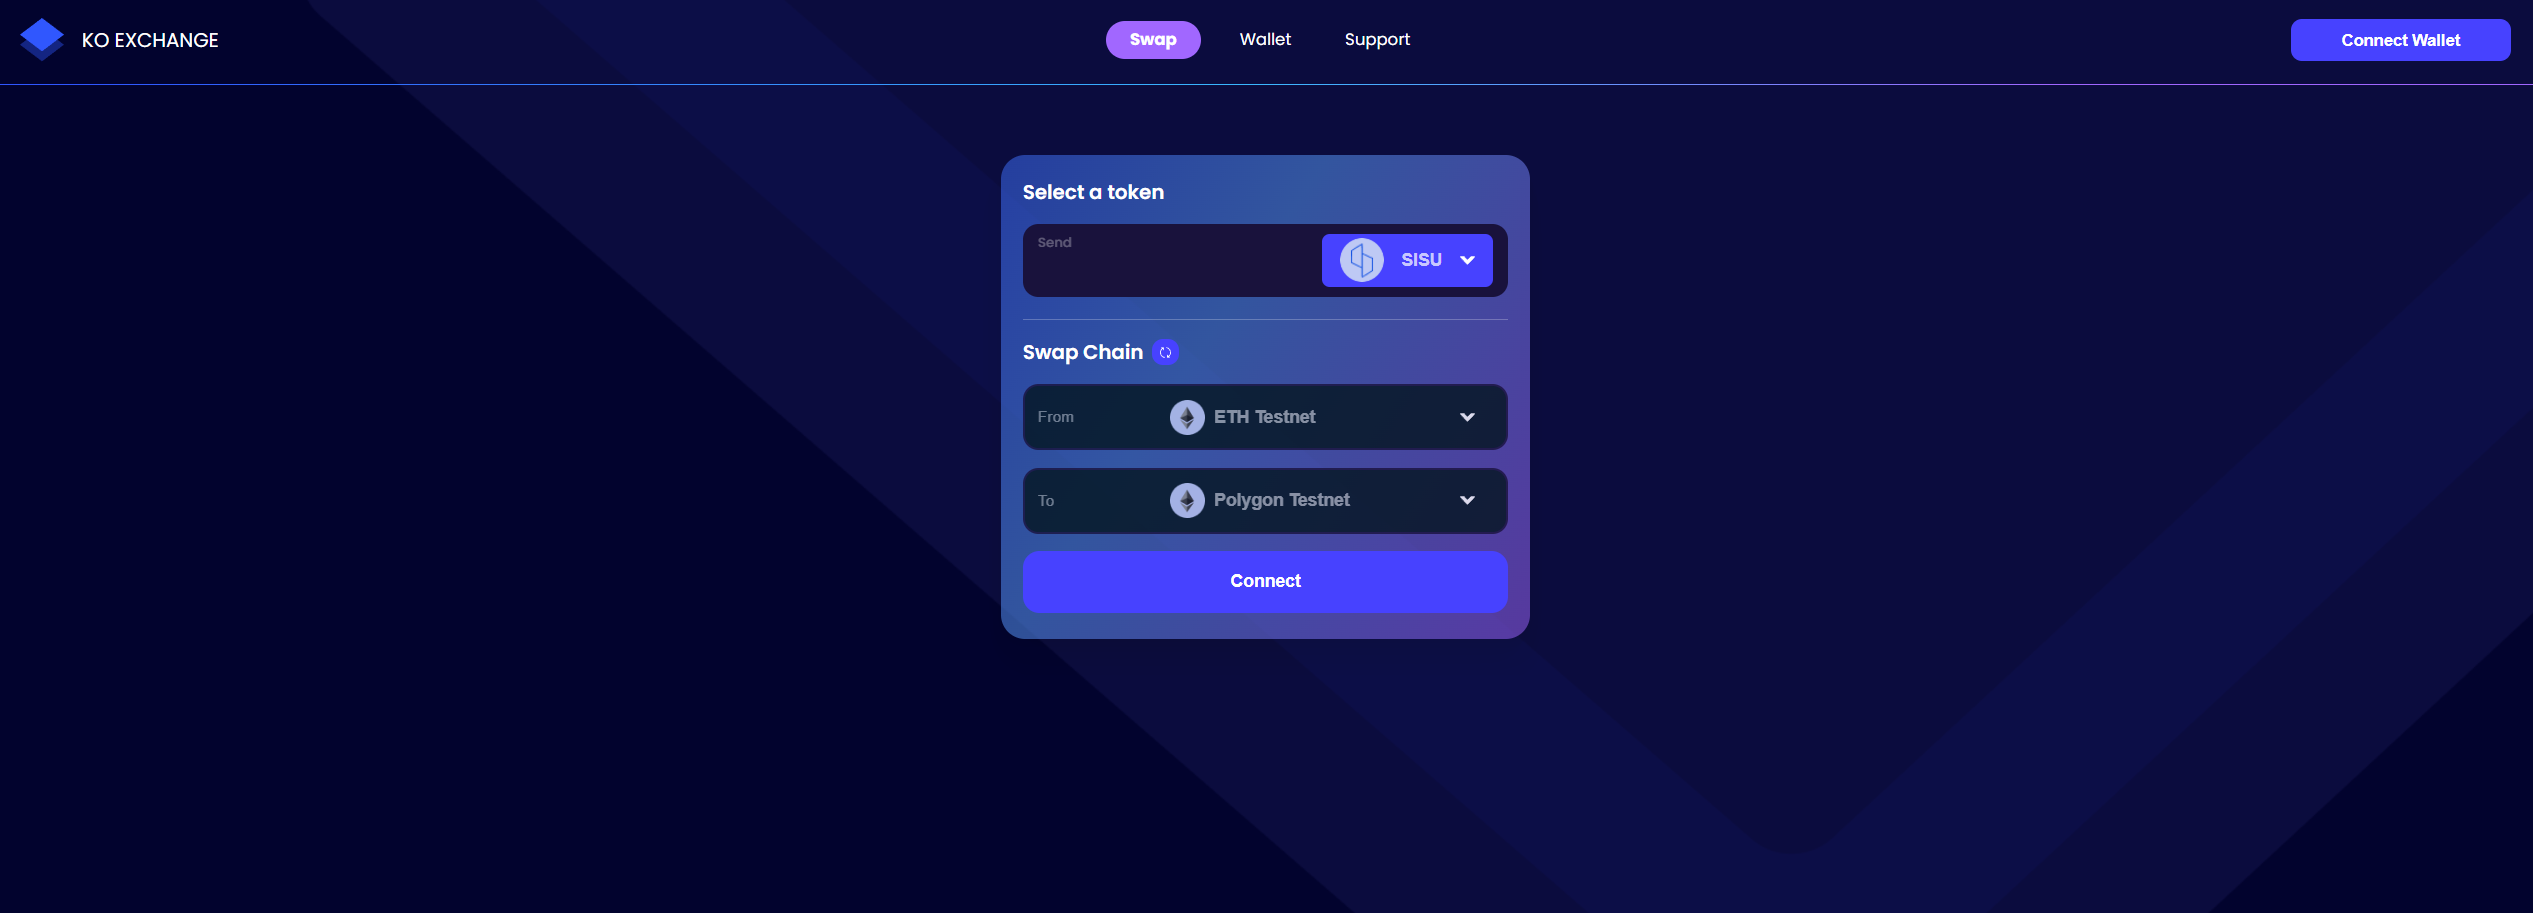
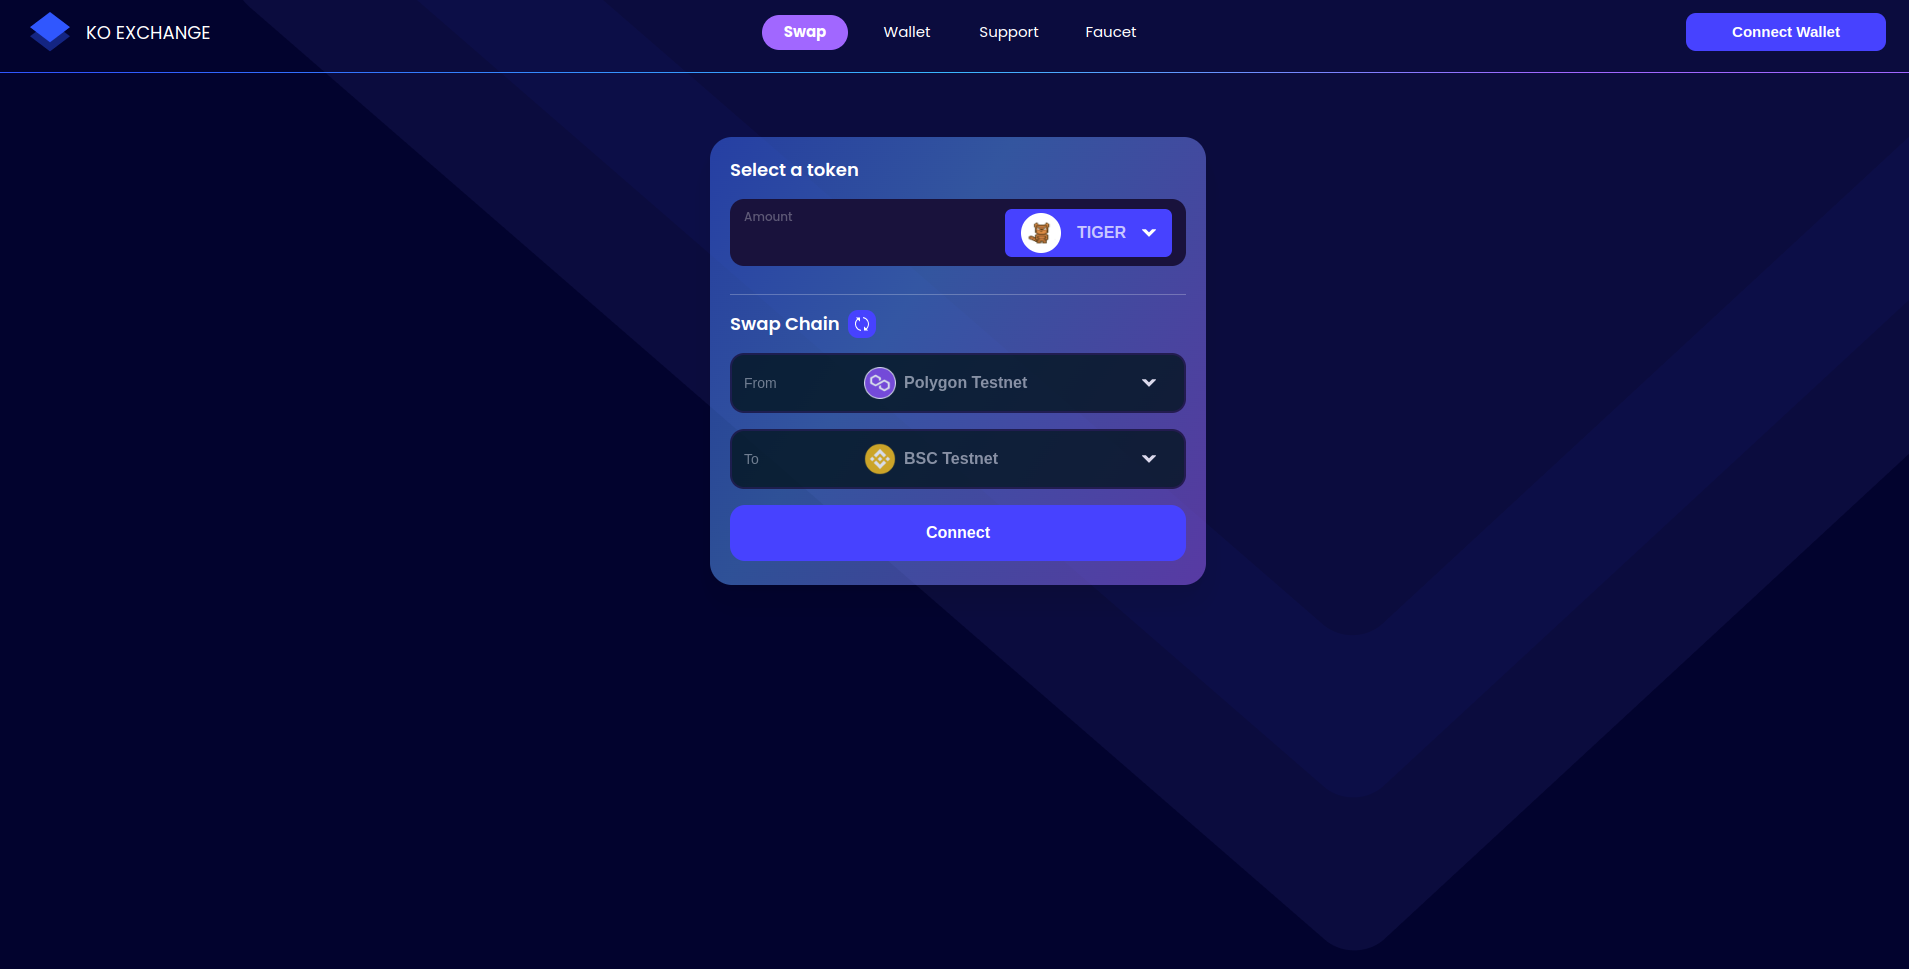
feat: update how to swap page

diff --git a/docs/how-to-swap-on-ko-exchange.md b/docs/how-to-swap-on-ko-exchange.md
@@ -9,15 +9,21 @@ Click link: [https://app.ko.exchange](https://app.ko.exchange)
 
 ![Step 1](./assets/swap/step1_1.png)
 
-Click Connect Wallet button on top right corner
+Click "Connect Wallet" button on the top right corner or the middle
 
 ![Step 1](./assets/swap/step1_2.png)
 
 ### Step 2
 
-Connect to your wallet. We currently support Metamask and Coinbase.
+Connect to your wallet. Depending on the source chain, there will be suitable wallets.
 
-![Step 2](./assets/swap/step2.png)
+BSC Testnet, Fantom Testnet, Polygon Testnet, Avalanche Testnet will support Metamask and Coinbase wallet.
+
+![Step 2](./assets/swap/step2_1.png)
+
+Cardano Testnet will support Nami and Flint wallet
+
+![Step 2](./assets/swap/step2_2.png)
 
 ### Step 3
 
@@ -27,77 +33,67 @@ Waiting for the wallet to connect.
 
 ### Step 4
 
-You will receive a message about "Unsupported Network".
+If Metamask or Coinbase is connected and the button is "Switch to the correct chain", please press it and confirm the popup from your wallet. Because current chain in your wallet is different from the source chain.
 
-This is normal because we are using an ETH Testnet (KO Chain) that is controlled by Sisu, not the Ethereum Mainnet.
+![Step 4](./assets/swap/step4_1.png)
 
-Click "x" on the top right corner.
+![Step 4](./assets/swap/step4_2.png)
 
-![Step 4](./assets/swap/step4.png)
+If Nami or Flint is connected and the button is "Unsupported chain" please make sure the wallet has currently use testnet network, if not, please change it to testnet.
+
+![Step 4](./assets/swap/step4_3.png)
 
 ### Step 5
 
-Click "Switch to supported network" to switch to ETH Testnet (KO Chain)
+Now you are already connected to the source chain on your wallet.
 
-Right now Metamask or your wallet will ask to allow to add the network
+Before you can transfer any tokens, you need to click "Give Permission" and confirm.
 
-Please choose Approve
+![Step 5](./assets/swap/step5_1.png)
 
-![Step 5](./assets/swap/step5.png)
+Please wait for a while until the transaction succeeds.
 
-### Step 6
+![Step 5](./assets/swap/step5_2.png)
 
-Allow this site to switch the network
+### Faucet
 
-Please choose "Switch Network"
+Sisu Network is using animal test tokens (TIGER, KANGAROO, MOUSE, MONKEY, BUNNY).
+You can claim it here [https://faucet.ko.exchange](https://faucet.ko.exchange)
 
-![Step 6](./assets/swap/step6.png)
+You can see your token balance in wallet tab.
 
-### Step 7
+![Step 6](./assets/swap/faucet.png)
 
-Now you are already connected to the ETH Testnet (KO chain) on your wallet
+After having some tokens, let’s swap now!
 
-Before you can transfer any tokens, you need to click “Give Permission”
+### Swap Chain
 
-Please click "Confirm"
+Make sure the current chain in wallet and source chain are the same. If not, it will show "Switch to the correct chain", please press and confirm.
 
-![Step 7](./assets/swap/step7.png)
+1.  Swap between ETH based chains (BSC Testnet, Fantom Testnet, Polygon Testnet, Avalanche Tesnet)
 
-### Note:
+Please enter a valid amount and press the "Swap" button
 
-"A fee is associated with this request. You need to have a minimum of $0.27(0.000094 ETH) test token in your wallet in order to confirm"
+![Swap](./assets/swap/swap1.png)
 
-This is only Test tokens, we will airdrop these Test tokens to our participants for gas fees.
+We provide links to your transaction after it succeeds.
 
-### Import Token:
+![Swap](./assets/swap/swap2.png)
 
-Sisu Network is using animal test tokens (Tiger, Monkey, Bunny,.. and so on)
+In the source chain, the transaction hash will be available immediately so the link will take you to the transaction link.
 
-We will then airdrop these test tokens to the testnet participants
+But transaction hash in the destination chain will be available after a while, so the link will take you to the page that lists the token transfers.
 
-You will need to import your Test token address into Metamask in order to see it
+Please wait and pay attention to the new "IN" row.
 
-In Metamask, please choose: Import Custom Token, Paste the address of our test token
+![Swap](./assets/swap/swap3.png)
 
-![Import token](./assets/swap/import_token.png)
+Or you can check token balance in [https://app.ko.exchange/wallet](https://app.ko.exchange/wallet)
 
-### Step 8:
+2.  Swap between ETH based chain and Cardano testnet
 
-After importing the Test token, you can now see the balance of your test token.
+Like swap between ETH based chains, but you should provide your recipient address which will receive a token (address format must be valid in the destination chain).
 
-For example: 47 Tiger Token
+![Swap](./assets/swap/swap4.png)
 
-You can now swap to different network
-
-You can choose Wallet column to see your balance of your tokens
-
-You can also switch back and forth different chain to see balance
-
-
-### Swap chain
-
-To swap back and forth between KO Chain and Mazze Chain, you can choose the icon next to "Swap Chain"
-
-Please click "Switch network" to allow wallet to switch from Ko Chain (ETH Testnet) to Mazze Chain
-
-![Swap chain](./assets/swap/swap_chain.png)
+**Hint:** In Cardano chain, you can see the token balance, transaction in, transaction out in your wallet (such as Nami) a bit faster than cardano explorer.
